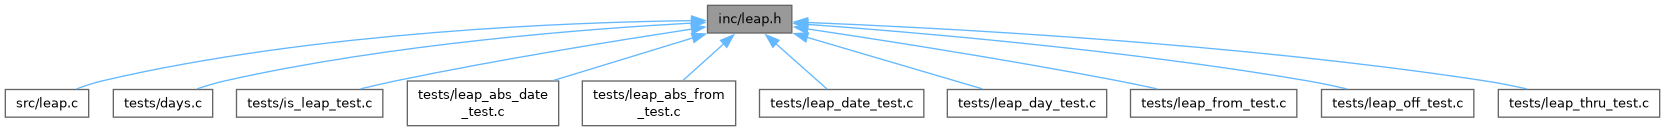
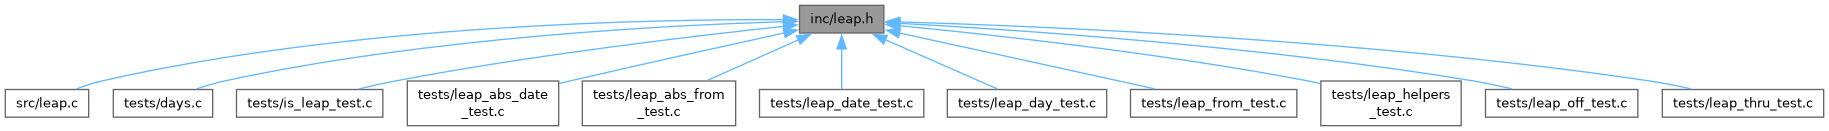
Deploying to gh-pages from @ royratcliffe/leapc@d7aab4cf6ba4ca4f71e1391567cd7a6581b0f03a 🚀

diff --git a/leap__helpers__test_8c_source.html b/leap__helpers__test_8c_source.html
@@ -1,0 +1,177 @@
+<!DOCTYPE html PUBLIC "-//W3C//DTD XHTML 1.0 Transitional//EN" "https://www.w3.org/TR/xhtml1/DTD/xhtml1-transitional.dtd">
+<html xmlns="http://www.w3.org/1999/xhtml" lang="en-US">
+<head>
+<meta http-equiv="Content-Type" content="text/xhtml;charset=UTF-8"/>
+<meta http-equiv="X-UA-Compatible" content="IE=11"/>
+<meta name="generator" content="Doxygen 1.15.0"/>
+<meta name="viewport" content="width=device-width, initial-scale=1"/>
+<title>leapc: tests/leap_helpers_test.c Source File</title>
+<link href="tabs.css" rel="stylesheet" type="text/css"/>
+<script type="text/javascript" src="jquery.js"></script>
+<script type="text/javascript" src="dynsections.js"></script>
+<script type="text/javascript" src="clipboard.js"></script>
+<link href="navtree.css" rel="stylesheet" type="text/css"/>
+<script type="text/javascript" src="navtreedata.js"></script>
+<script type="text/javascript" src="navtree.js"></script>
+<script type="text/javascript" src="cookie.js"></script>
+<link href="search/search.css" rel="stylesheet" type="text/css"/>
+<script type="text/javascript" src="search/searchdata.js"></script>
+<script type="text/javascript" src="search/search.js"></script>
+<link href="doxygen.css" rel="stylesheet" type="text/css" />
+</head>
+<body>
+<div id="top"><!-- do not remove this div, it is closed by doxygen! -->
+<div id="titlearea">
+<table cellspacing="0" cellpadding="0">
+ <tbody>
+ <tr id="projectrow">
+  <td id="projectalign">
+   <div id="projectname">leapc
+   </div>
+  </td>
+ </tr>
+ </tbody>
+</table>
+</div>
+<!-- end header part -->
+<!-- Generated by Doxygen 1.15.0 -->
+<script type="text/javascript">
+var searchBox = new SearchBox("searchBox", "search/",'.html');
+</script>
+<script type="text/javascript">
+$(function() { codefold.init(); });
+</script>
+<script type="text/javascript" src="menudata.js"></script>
+<script type="text/javascript" src="menu.js"></script>
+<script type="text/javascript">
+$(function() {
+  initMenu('',true,false,'search.php','Search',true);
+  $(function() { init_search(); });
+});
+</script>
+<div id="main-nav"></div>
+</div><!-- top -->
+<div id="side-nav" class="ui-resizable side-nav-resizable">
+  <div id="nav-tree">
+    <div id="nav-tree-contents">
+      <div id="nav-sync" class="sync"></div>
+    </div>
+  </div>
+  <div id="splitbar" style="-moz-user-select:none;" 
+       class="ui-resizable-handle">
+  </div>
+</div>
+<script type="text/javascript">
+$(function(){initNavTree('leap__helpers__test_8c_source.html','',''); });
+</script>
+<div id="container">
+<div id="doc-content">
+<!-- window showing the filter options -->
+<div id="MSearchSelectWindow"
+     onmouseover="return searchBox.OnSearchSelectShow()"
+     onmouseout="return searchBox.OnSearchSelectHide()"
+     onkeydown="return searchBox.OnSearchSelectKey(event)">
+</div>
+
+<!-- iframe showing the search results (closed by default) -->
+<div id="MSearchResultsWindow">
+<div id="MSearchResults">
+<div class="SRPage">
+<div id="SRIndex">
+<div id="SRResults"></div>
+<div class="SRStatus" id="Loading">Loading...</div>
+<div class="SRStatus" id="Searching">Searching...</div>
+<div class="SRStatus" id="NoMatches">No Matches</div>
+</div>
+</div>
+</div>
+</div>
+
+<div class="header">
+  <div class="headertitle"><div class="title">leap_helpers_test.c</div></div>
+</div><!--header-->
+<div class="contents">
+<div class="fragment"><div class="line"><a id="l00001" name="l00001"></a><span class="lineno">    1</span><span class="preprocessor">#include &quot;<a class="code" href="leap_8h.html">leap.h</a>&quot;</span></div>
+<div class="line"><a id="l00002" name="l00002"></a><span class="lineno">    2</span> </div>
+<div class="line"><a id="l00003" name="l00003"></a><span class="lineno">    3</span><span class="comment">/* Keep assert-based tests enabled in Release builds. */</span></div>
+<div class="line"><a id="l00004" name="l00004"></a><span class="lineno">    4</span><span class="preprocessor">#ifdef NDEBUG</span></div>
+<div class="line"><a id="l00005" name="l00005"></a><span class="lineno">    5</span><span class="preprocessor">#undef NDEBUG</span></div>
+<div class="line"><a id="l00006" name="l00006"></a><span class="lineno">    6</span><span class="preprocessor">#endif</span></div>
+<div class="line"><a id="l00007" name="l00007"></a><span class="lineno">    7</span><span class="preprocessor">#include &lt;assert.h&gt;</span></div>
+<div class="line"><a id="l00008" name="l00008"></a><span class="lineno">    8</span><span class="preprocessor">#include &lt;stdlib.h&gt;</span></div>
+<div class="line"><a id="l00009" name="l00009"></a><span class="lineno">    9</span> </div>
+<div class="line"><a id="l00010" name="l00010"></a><span class="lineno">   10</span><span class="keywordtype">int</span> leap_helpers_test(<span class="keywordtype">int</span> argc, <span class="keywordtype">char</span> **argv) {</div>
+<div class="line"><a id="l00011" name="l00011"></a><span class="lineno">   11</span>  (void)argc;</div>
+<div class="line"><a id="l00012" name="l00012"></a><span class="lineno">   12</span>  (void)argv;</div>
+<div class="line"><a id="l00013" name="l00013"></a><span class="lineno">   13</span> </div>
+<div class="line"><a id="l00014" name="l00014"></a><span class="lineno">   14</span>  <span class="keyword">static</span> <span class="keyword">const</span> <span class="keyword">struct </span><a class="code hl_struct" href="structleap__off.html">leap_off</a> offsets[] = {</div>
+<div class="line"><a id="l00015" name="l00015"></a><span class="lineno">   15</span>      {2000, 59},</div>
+<div class="line"><a id="l00016" name="l00016"></a><span class="lineno">   16</span>      {2001, 59},</div>
+<div class="line"><a id="l00017" name="l00017"></a><span class="lineno">   17</span>      {2000, 60},</div>
+<div class="line"><a id="l00018" name="l00018"></a><span class="lineno">   18</span>  };</div>
+<div class="line"><a id="l00019" name="l00019"></a><span class="lineno">   19</span>  <span class="keyword">static</span> <span class="keyword">const</span> <span class="keyword">struct </span><a class="code hl_struct" href="structleap__date.html">leap_date</a> dates[] = {</div>
+<div class="line"><a id="l00020" name="l00020"></a><span class="lineno">   20</span>      {2000, 2, 29},</div>
+<div class="line"><a id="l00021" name="l00021"></a><span class="lineno">   21</span>      {2001, 2, 29},</div>
+<div class="line"><a id="l00022" name="l00022"></a><span class="lineno">   22</span>      {2000, 3, 29},</div>
+<div class="line"><a id="l00023" name="l00023"></a><span class="lineno">   23</span>      {2000, 2, 28},</div>
+<div class="line"><a id="l00024" name="l00024"></a><span class="lineno">   24</span>  };</div>
+<div class="line"><a id="l00025" name="l00025"></a><span class="lineno">   25</span> </div>
+<div class="line"><a id="l00026" name="l00026"></a><span class="lineno">   26</span>  <span class="keywordflow">for</span> (<span class="keywordtype">size_t</span> i = 0; i &lt; <span class="keyword">sizeof</span> offsets / <span class="keyword">sizeof</span> offsets[0]; i++)</div>
+<div class="line"><a id="l00027" name="l00027"></a><span class="lineno">   27</span>    <span class="keywordflow">for</span> (<span class="keywordtype">size_t</span> j = 0; j &lt; <span class="keyword">sizeof</span> offsets / <span class="keyword">sizeof</span> offsets[0]; j++)</div>
+<div class="line"><a id="l00028" name="l00028"></a><span class="lineno">   28</span>      assert(<a class="code hl_function" href="leap_8h.html#a00361f152b7493548e05449e8715e0d7">equal_leap_off</a>(offsets[i], offsets[j]) == (i == j));</div>
+<div class="line"><a id="l00029" name="l00029"></a><span class="lineno">   29</span> </div>
+<div class="line"><a id="l00030" name="l00030"></a><span class="lineno">   30</span>  <span class="keywordflow">for</span> (<span class="keywordtype">size_t</span> i = 0; i &lt; <span class="keyword">sizeof</span> dates / <span class="keyword">sizeof</span> dates[0]; i++)</div>
+<div class="line"><a id="l00031" name="l00031"></a><span class="lineno">   31</span>    <span class="keywordflow">for</span> (<span class="keywordtype">size_t</span> j = 0; j &lt; <span class="keyword">sizeof</span> dates / <span class="keyword">sizeof</span> dates[0]; j++)</div>
+<div class="line"><a id="l00032" name="l00032"></a><span class="lineno">   32</span>      assert(<a class="code hl_function" href="leap_8h.html#ada49db2df2689b249acfb50ebe09a28f">equal_leap_date</a>(dates[i], dates[j]) == (i == j));</div>
+<div class="line"><a id="l00033" name="l00033"></a><span class="lineno">   33</span> </div>
+<div class="line"><a id="l00034" name="l00034"></a><span class="lineno">   34</span>  <span class="comment">/* Test conversion between leap_date and leap_off structures. */</span></div>
+<div class="line"><a id="l00035" name="l00035"></a><span class="lineno">   35</span>  <span class="keyword">static</span> <span class="keyword">const</span> <span class="keyword">struct </span>{</div>
+<div class="line"><a id="l00036" name="l00036"></a><span class="lineno">   36</span>    <span class="keyword">struct </span><a class="code hl_function" href="leap_8h.html#a704a91098c0752c7380cc7e9aa2d3d10">leap_date</a> date;</div>
+<div class="line"><a id="l00037" name="l00037"></a><span class="lineno">   37</span>    <span class="keyword">struct </span><a class="code hl_function" href="leap_8h.html#aaa3f95737d9178c8116408089e693d24">leap_off</a> off;</div>
+<div class="line"><a id="l00038" name="l00038"></a><span class="lineno">   38</span>    <span class="keywordtype">int</span> absolute;</div>
+<div class="line"><a id="l00039" name="l00039"></a><span class="lineno">   39</span>  } cases[] = {</div>
+<div class="line"><a id="l00040" name="l00040"></a><span class="lineno">   40</span>      {{0, 1, 1}, {0, 0}, 0},   {{0, 2, 29}, {0, 59}, 59},     {{0, 12, 31}, {0, 365}, 365},</div>
+<div class="line"><a id="l00041" name="l00041"></a><span class="lineno">   41</span>      {{1, 1, 1}, {1, 0}, 366}, {{-1, 12, 31}, {-1, 364}, -1},</div>
+<div class="line"><a id="l00042" name="l00042"></a><span class="lineno">   42</span>  };</div>
+<div class="line"><a id="l00043" name="l00043"></a><span class="lineno">   43</span> </div>
+<div class="line"><a id="l00044" name="l00044"></a><span class="lineno">   44</span>  <span class="keywordflow">for</span> (<span class="keywordtype">size_t</span> i = 0; i &lt; <span class="keyword">sizeof</span> cases / <span class="keyword">sizeof</span> cases[0]; i++) {</div>
+<div class="line"><a id="l00045" name="l00045"></a><span class="lineno">   45</span>    <span class="keyword">const</span> <span class="keyword">struct </span><a class="code hl_struct" href="structleap__off.html">leap_off</a> off = <a class="code hl_function" href="leap_8h.html#a77ce78ae87adfdb0135c27f4f2c45e7b">leap_from_date</a>(cases[i].date);</div>
+<div class="line"><a id="l00046" name="l00046"></a><span class="lineno">   46</span>    assert(off.<a class="code hl_variable" href="structleap__off.html#adbe52994b637f6e5f60225a3300b2ac3">year</a> == cases[i].off.year);</div>
+<div class="line"><a id="l00047" name="l00047"></a><span class="lineno">   47</span>    assert(off.<a class="code hl_variable" href="structleap__off.html#abfced6c902115427f236f9d210728b03">day</a> == cases[i].off.day);</div>
+<div class="line"><a id="l00048" name="l00048"></a><span class="lineno">   48</span>    assert(<a class="code hl_function" href="leap_8h.html#a25b20ed9e561091bc166e0ed29125299">leap_abs_from_date</a>(cases[i].date) == cases[i].absolute);</div>
+<div class="line"><a id="l00049" name="l00049"></a><span class="lineno">   49</span> </div>
+<div class="line"><a id="l00050" name="l00050"></a><span class="lineno">   50</span>    <span class="keyword">const</span> <span class="keyword">struct </span><a class="code hl_struct" href="structleap__date.html">leap_date</a> date = <a class="code hl_function" href="leap_8h.html#a52d40d15121fd759f22df038eacfc340">leap_date_from_off</a>(cases[i].off);</div>
+<div class="line"><a id="l00051" name="l00051"></a><span class="lineno">   51</span>    assert(date.<a class="code hl_variable" href="structleap__date.html#a2592d9561ec40722409dccce80e279ab">year</a> == cases[i].date.year);</div>
+<div class="line"><a id="l00052" name="l00052"></a><span class="lineno">   52</span>    assert(date.<a class="code hl_variable" href="structleap__date.html#ab236ca424c309ab5d4e90adf9642522b">month</a> == cases[i].date.month);</div>
+<div class="line"><a id="l00053" name="l00053"></a><span class="lineno">   53</span>    assert(date.<a class="code hl_variable" href="structleap__date.html#af298f0ea5fb406b2e02aa35d3c68c71f">day</a> == cases[i].date.day);</div>
+<div class="line"><a id="l00054" name="l00054"></a><span class="lineno">   54</span>  }</div>
+<div class="line"><a id="l00055" name="l00055"></a><span class="lineno">   55</span> </div>
+<div class="line"><a id="l00056" name="l00056"></a><span class="lineno">   56</span>  <span class="keywordflow">return</span> EXIT_SUCCESS;</div>
+<div class="line"><a id="l00057" name="l00057"></a><span class="lineno">   57</span>}</div>
+<div class="ttc" id="aleap_8h_html"><div class="ttname"><a href="leap_8h.html">leap.h</a></div><div class="ttdoc">Leap year function prototypes.</div></div>
+<div class="ttc" id="aleap_8h_html_a00361f152b7493548e05449e8715e0d7"><div class="ttname"><a href="leap_8h.html#a00361f152b7493548e05449e8715e0d7">equal_leap_off</a></div><div class="ttdeci">static bool equal_leap_off(struct leap_off lhs, struct leap_off rhs)</div><div class="ttdoc">Compares two leap_off structures for equality.</div><div class="ttdef"><b>Definition</b> <a href="leap_8h_source.html#l00105">leap.h:105</a></div></div>
+<div class="ttc" id="aleap_8h_html_a25b20ed9e561091bc166e0ed29125299"><div class="ttname"><a href="leap_8h.html#a25b20ed9e561091bc166e0ed29125299">leap_abs_from_date</a></div><div class="ttdeci">static int leap_abs_from_date(struct leap_date date)</div><div class="ttdoc">Absolute date from leap_date structure.</div><div class="ttdef"><b>Definition</b> <a href="leap_8h_source.html#l00275">leap.h:275</a></div></div>
+<div class="ttc" id="aleap_8h_html_a52d40d15121fd759f22df038eacfc340"><div class="ttname"><a href="leap_8h.html#a52d40d15121fd759f22df038eacfc340">leap_date_from_off</a></div><div class="ttdeci">static struct leap_date leap_date_from_off(struct leap_off off)</div><div class="ttdoc">Date from leap offset.</div><div class="ttdef"><b>Definition</b> <a href="leap_8h_source.html#l00218">leap.h:218</a></div></div>
+<div class="ttc" id="aleap_8h_html_a704a91098c0752c7380cc7e9aa2d3d10"><div class="ttname"><a href="leap_8h.html#a704a91098c0752c7380cc7e9aa2d3d10">leap_date</a></div><div class="ttdeci">struct leap_date leap_date(int year, int day_off)</div><div class="ttdoc">Date from year and day of year.</div><div class="ttdef"><b>Definition</b> <a href="leap_8c_source.html#l00104">leap.c:104</a></div></div>
+<div class="ttc" id="aleap_8h_html_a77ce78ae87adfdb0135c27f4f2c45e7b"><div class="ttname"><a href="leap_8h.html#a77ce78ae87adfdb0135c27f4f2c45e7b">leap_from_date</a></div><div class="ttdeci">static struct leap_off leap_from_date(struct leap_date date)</div><div class="ttdoc">Day from leap date.</div><div class="ttdef"><b>Definition</b> <a href="leap_8h_source.html#l00240">leap.h:240</a></div></div>
+<div class="ttc" id="aleap_8h_html_aaa3f95737d9178c8116408089e693d24"><div class="ttname"><a href="leap_8h.html#aaa3f95737d9178c8116408089e693d24">leap_off</a></div><div class="ttdeci">struct leap_off leap_off(int year, int day_off)</div><div class="ttdoc">Offsets year and day of year.</div><div class="ttdef"><b>Definition</b> <a href="leap_8c_source.html#l00070">leap.c:70</a></div></div>
+<div class="ttc" id="aleap_8h_html_ada49db2df2689b249acfb50ebe09a28f"><div class="ttname"><a href="leap_8h.html#ada49db2df2689b249acfb50ebe09a28f">equal_leap_date</a></div><div class="ttdeci">static bool equal_leap_date(struct leap_date lhs, struct leap_date rhs)</div><div class="ttdoc">Compares two leap_date structures for equality.</div><div class="ttdef"><b>Definition</b> <a href="leap_8h_source.html#l00193">leap.h:193</a></div></div>
+<div class="ttc" id="astructleap__date_html"><div class="ttname"><a href="structleap__date.html">leap_date</a></div><div class="ttdoc">Leap year date structure.</div><div class="ttdef"><b>Definition</b> <a href="leap_8h_source.html#l00163">leap.h:163</a></div></div>
+<div class="ttc" id="astructleap__date_html_a2592d9561ec40722409dccce80e279ab"><div class="ttname"><a href="structleap__date.html#a2592d9561ec40722409dccce80e279ab">leap_date::year</a></div><div class="ttdeci">int year</div><div class="ttdoc">Year.</div><div class="ttdef"><b>Definition</b> <a href="leap_8h_source.html#l00167">leap.h:167</a></div></div>
+<div class="ttc" id="astructleap__date_html_ab236ca424c309ab5d4e90adf9642522b"><div class="ttname"><a href="structleap__date.html#ab236ca424c309ab5d4e90adf9642522b">leap_date::month</a></div><div class="ttdeci">int month</div><div class="ttdoc">Month of year starting from 1 for January.</div><div class="ttdef"><b>Definition</b> <a href="leap_8h_source.html#l00174">leap.h:174</a></div></div>
+<div class="ttc" id="astructleap__date_html_af298f0ea5fb406b2e02aa35d3c68c71f"><div class="ttname"><a href="structleap__date.html#af298f0ea5fb406b2e02aa35d3c68c71f">leap_date::day</a></div><div class="ttdeci">int day</div><div class="ttdoc">Day of month starting from 1 for the first day of the month.</div><div class="ttdef"><b>Definition</b> <a href="leap_8h_source.html#l00181">leap.h:181</a></div></div>
+<div class="ttc" id="astructleap__off_html"><div class="ttname"><a href="structleap__off.html">leap_off</a></div><div class="ttdoc">Leap offset by year and day.</div><div class="ttdef"><b>Definition</b> <a href="leap_8h_source.html#l00077">leap.h:77</a></div></div>
+<div class="ttc" id="astructleap__off_html_abfced6c902115427f236f9d210728b03"><div class="ttname"><a href="structleap__off.html#abfced6c902115427f236f9d210728b03">leap_off::day</a></div><div class="ttdeci">int day</div><div class="ttdoc">Day of year offset.</div><div class="ttdef"><b>Definition</b> <a href="leap_8h_source.html#l00085">leap.h:85</a></div></div>
+<div class="ttc" id="astructleap__off_html_adbe52994b637f6e5f60225a3300b2ac3"><div class="ttname"><a href="structleap__off.html#adbe52994b637f6e5f60225a3300b2ac3">leap_off::year</a></div><div class="ttdeci">int year</div><div class="ttdoc">Year offset.</div><div class="ttdef"><b>Definition</b> <a href="leap_8h_source.html#l00081">leap.h:81</a></div></div>
+</div><!-- fragment --></div><!-- contents -->
+</div><!-- doc-content -->
+</div><!-- container -->
+<!-- start footer part -->
+<div id="nav-path" class="navpath"><!-- id is needed for treeview function! -->
+  <ul>
+    <li class="navelem"><b>tests</b></li><li class="navelem"><b>leap_helpers_test.c</b></li>
+    <li class="footer">Generated by <a href="https://www.doxygen.org/index.html"><img class="footer" src="doxygen.svg" width="104" height="31" alt="doxygen"/></a> 1.15.0 </li>
+  </ul>
+</div>
+</body>
+</html>

diff --git a/leap_8h.html b/leap_8h.html
@@ -117,27 +117,29 @@ This graph shows which files directly or indirectly include this file:</div>
 <div class="dyncontent">
 <div class="center"><img src="leap_8h__dep__incl.png" border="0" usemap="#ainc_2leap_8hdep" loading="lazy" alt=""/></div>
 <map name="ainc_2leap_8hdep" id="ainc_2leap_8hdep">
-<area shape="rect" title="Leap year function prototypes." alt="" coords="708,5,792,33"/>
+<area shape="rect" title="Leap year function prototypes." alt="" coords="800,5,884,33"/>
 <area shape="rect" href="leap_8c.html" title="Leap year function implementations." alt="" coords="5,90,89,117"/>
-<area shape="poly" title=" " alt="" coords="689,21,582,26,434,35,268,53,184,67,102,84,78,91,76,86,101,78,183,61,268,48,434,30,581,21,694,20"/>
+<area shape="poly" title=" " alt="" coords="781,20,659,24,489,31,296,50,198,65,102,84,78,91,76,86,101,78,197,59,295,45,489,26,659,18,786,19"/>
 <area shape="rect" href="days_8c_source.html" title=" " alt="" coords="113,90,213,117"/>
-<area shape="poly" title=" " alt="" coords="689,24,484,43,355,59,225,84,198,91,196,86,224,78,354,54,484,37,694,23"/>
+<area shape="poly" title=" " alt="" coords="781,22,678,29,539,39,382,56,225,84,197,92,196,86,224,78,381,51,538,33,678,24,786,21"/>
 <area shape="rect" href="is__leap__test_8c_source.html" title=" " alt="" coords="236,90,383,117"/>
-<area shape="poly" title=" " alt="" coords="694,29,556,54,396,84,361,91,360,86,394,78,556,48,689,29"/>
+<area shape="poly" title=" " alt="" coords="781,27,610,50,395,84,360,92,359,86,395,78,609,45,787,26"/>
 <area shape="rect" href="leap__abs__date__test_8c_source.html" title=" " alt="" coords="407,81,559,126"/>
-<area shape="poly" title=" " alt="" coords="696,37,554,83,553,78,690,38"/>
+<area shape="poly" title=" " alt="" coords="787,33,570,84,559,86,559,81,569,78,782,33"/>
 <area shape="rect" href="leap__abs__from__test_8c_source.html" title=" " alt="" coords="582,81,736,126"/>
-<area shape="poly" title=" " alt="" coords="726,43,684,83,682,78,721,45"/>
+<area shape="poly" title=" " alt="" coords="801,39,708,83,707,78,796,40"/>
 <area shape="rect" href="leap__date__test_8c_source.html" title=" " alt="" coords="760,90,924,117"/>
-<area shape="poly" title=" " alt="" coords="777,41,830,90,825,88,775,46"/>
+<area shape="poly" title=" " alt="" coords="844,47,844,91,840,87,840,51"/>
 <area shape="rect" href="leap__day__test_8c_source.html" title=" " alt="" coords="947,90,1107,117"/>
-<area shape="poly" title=" " alt="" coords="807,35,985,89,980,89,807,40"/>
+<area shape="poly" title=" " alt="" coords="886,37,1000,89,995,89,885,42"/>
 <area shape="rect" href="leap__from__test_8c_source.html" title=" " alt="" coords="1130,90,1297,117"/>
-<area shape="poly" title=" " alt="" coords="808,26,950,49,1120,78,1160,89,1155,89,1118,84,949,54,807,32"/>
-<area shape="rect" href="leap__off__test_8c_source.html" title=" " alt="" coords="1322,90,1474,117"/>
-<area shape="poly" title=" " alt="" coords="807,22,1028,41,1168,57,1309,78,1350,89,1344,89,1308,84,1167,63,1027,46,807,27"/>
-<area shape="rect" href="leap__thru__test_8c_source.html" title=" " alt="" coords="1498,90,1660,117"/>
-<area shape="poly" title=" " alt="" coords="807,20,1099,37,1292,54,1486,78,1530,89,1524,89,1485,84,1291,59,1099,42,807,25"/>
+<area shape="poly" title=" " alt="" coords="900,30,1120,78,1157,89,1152,89,1118,84,899,36"/>
+<area shape="rect" href="leap__helpers__test_8c_source.html" title=" " alt="" coords="1321,81,1461,126"/>
+<area shape="poly" title=" " alt="" coords="899,23,1083,43,1309,78,1323,84,1318,83,1308,84,1082,49,899,28"/>
+<area shape="rect" href="leap__off__test_8c_source.html" title=" " alt="" coords="1486,90,1638,117"/>
+<area shape="poly" title=" " alt="" coords="900,21,1150,39,1311,55,1474,78,1515,89,1509,89,1473,84,1311,61,1150,44,900,26"/>
+<area shape="rect" href="leap__thru__test_8c_source.html" title=" " alt="" coords="1662,90,1824,117"/>
+<area shape="poly" title=" " alt="" coords="900,19,1220,35,1434,52,1650,78,1694,89,1688,89,1649,84,1433,57,1220,40,900,25"/>
 </map>
 </div>
 </div>

diff --git a/dir_000002_000000.html b/dir_000002_000000.html
@@ -95,7 +95,7 @@ $(function(){initNavTree('dir_59425e443f801f1f2fd8bbe4959a3ccf.html','',''); });
 </div>
 
 <div class="contents">
-<h3>tests &rarr; inc Relation</h3><table class="dirtab"><tr class="dirtab"><th class="dirtab">File in tests</th><th class="dirtab">Includes file in inc</th></tr><tr class="dirtab"><td class="dirtab"><b>days.c</b></td><td class="dirtab"><a class="el" href="leap_8h.html">leap.h</a></td></tr><tr class="dirtab"><td class="dirtab"><b>is_leap_test.c</b></td><td class="dirtab"><a class="el" href="leap_8h.html">leap.h</a></td></tr><tr class="dirtab"><td class="dirtab"><b>leap_abs_date_test.c</b></td><td class="dirtab"><a class="el" href="leap_8h.html">leap.h</a></td></tr><tr class="dirtab"><td class="dirtab"><b>leap_abs_from_test.c</b></td><td class="dirtab"><a class="el" href="leap_8h.html">leap.h</a></td></tr><tr class="dirtab"><td class="dirtab"><b>leap_date_test.c</b></td><td class="dirtab"><a class="el" href="leap_8h.html">leap.h</a></td></tr><tr class="dirtab"><td class="dirtab"><b>leap_day_test.c</b></td><td class="dirtab"><a class="el" href="leap_8h.html">leap.h</a></td></tr><tr class="dirtab"><td class="dirtab"><b>leap_from_test.c</b></td><td class="dirtab"><a class="el" href="leap_8h.html">leap.h</a></td></tr><tr class="dirtab"><td class="dirtab"><b>leap_off_test.c</b></td><td class="dirtab"><a class="el" href="leap_8h.html">leap.h</a></td></tr><tr class="dirtab"><td class="dirtab"><b>leap_thru_test.c</b></td><td class="dirtab"><a class="el" href="leap_8h.html">leap.h</a></td></tr><tr class="dirtab"><td class="dirtab"><b>quo_mod_test.c</b></td><td class="dirtab"><a class="el" href="quo__mod_8h.html">quo_mod.h</a></td></tr></table></div><!-- contents -->
+<h3>tests &rarr; inc Relation</h3><table class="dirtab"><tr class="dirtab"><th class="dirtab">File in tests</th><th class="dirtab">Includes file in inc</th></tr><tr class="dirtab"><td class="dirtab"><b>days.c</b></td><td class="dirtab"><a class="el" href="leap_8h.html">leap.h</a></td></tr><tr class="dirtab"><td class="dirtab"><b>is_leap_test.c</b></td><td class="dirtab"><a class="el" href="leap_8h.html">leap.h</a></td></tr><tr class="dirtab"><td class="dirtab"><b>leap_abs_date_test.c</b></td><td class="dirtab"><a class="el" href="leap_8h.html">leap.h</a></td></tr><tr class="dirtab"><td class="dirtab"><b>leap_abs_from_test.c</b></td><td class="dirtab"><a class="el" href="leap_8h.html">leap.h</a></td></tr><tr class="dirtab"><td class="dirtab"><b>leap_date_test.c</b></td><td class="dirtab"><a class="el" href="leap_8h.html">leap.h</a></td></tr><tr class="dirtab"><td class="dirtab"><b>leap_day_test.c</b></td><td class="dirtab"><a class="el" href="leap_8h.html">leap.h</a></td></tr><tr class="dirtab"><td class="dirtab"><b>leap_from_test.c</b></td><td class="dirtab"><a class="el" href="leap_8h.html">leap.h</a></td></tr><tr class="dirtab"><td class="dirtab"><b>leap_helpers_test.c</b></td><td class="dirtab"><a class="el" href="leap_8h.html">leap.h</a></td></tr><tr class="dirtab"><td class="dirtab"><b>leap_off_test.c</b></td><td class="dirtab"><a class="el" href="leap_8h.html">leap.h</a></td></tr><tr class="dirtab"><td class="dirtab"><b>leap_thru_test.c</b></td><td class="dirtab"><a class="el" href="leap_8h.html">leap.h</a></td></tr><tr class="dirtab"><td class="dirtab"><b>quo_mod_test.c</b></td><td class="dirtab"><a class="el" href="quo__mod_8h.html">quo_mod.h</a></td></tr></table></div><!-- contents -->
 </div><!-- doc-content -->
 <div id="page-nav" class="page-nav-panel">
 <div id="page-nav-resize-handle"></div>

diff --git a/dir_59425e443f801f1f2fd8bbe4959a3ccf.html b/dir_59425e443f801f1f2fd8bbe4959a3ccf.html
@@ -106,7 +106,7 @@ Directory dependency graph for tests:</div>
 <area shape="rect" href="dir_59425e443f801f1f2fd8bbe4959a3ccf.html" title="tests" alt="" coords="5,5,59,33"/>
 <area shape="rect" href="dir_bfccd401955b95cf8c75461437045ac0.html" title="inc" alt="" coords="12,81,52,109"/>
 <area shape="poly" href="dir_000002_000000.html" alt="" coords="33,31,35,66,29,65,31,36"/>
-<area shape="rect" href="dir_000002_000000.html" title="10" alt="" coords="32,54,48,71"/>
+<area shape="rect" href="dir_000002_000000.html" title="11" alt="" coords="32,54,48,71"/>
 </map>
 </div>
 <table class="memberdecls">
@@ -121,6 +121,7 @@ Files</h2></td></tr>
 <tr class="memitem:leap_5Fdate_5Ftest_2Ec" id="r_leap_5Fdate_5Ftest_2Ec"><td class="memItemLeft" align="right" valign="top"><a href="leap__date__test_8c_source.html"><span class="icondoc"><div class="doc-icon"></div></span></a>&#160;</td><td class="memItemRight" valign="bottom"><b>leap_date_test.c</b></td></tr>
 <tr class="memitem:leap_5Fday_5Ftest_2Ec" id="r_leap_5Fday_5Ftest_2Ec"><td class="memItemLeft" align="right" valign="top"><a href="leap__day__test_8c_source.html"><span class="icondoc"><div class="doc-icon"></div></span></a>&#160;</td><td class="memItemRight" valign="bottom"><b>leap_day_test.c</b></td></tr>
 <tr class="memitem:leap_5Ffrom_5Ftest_2Ec" id="r_leap_5Ffrom_5Ftest_2Ec"><td class="memItemLeft" align="right" valign="top"><a href="leap__from__test_8c_source.html"><span class="icondoc"><div class="doc-icon"></div></span></a>&#160;</td><td class="memItemRight" valign="bottom"><b>leap_from_test.c</b></td></tr>
+<tr class="memitem:leap_5Fhelpers_5Ftest_2Ec" id="r_leap_5Fhelpers_5Ftest_2Ec"><td class="memItemLeft" align="right" valign="top"><a href="leap__helpers__test_8c_source.html"><span class="icondoc"><div class="doc-icon"></div></span></a>&#160;</td><td class="memItemRight" valign="bottom"><b>leap_helpers_test.c</b></td></tr>
 <tr class="memitem:leap_5Foff_5Ftest_2Ec" id="r_leap_5Foff_5Ftest_2Ec"><td class="memItemLeft" align="right" valign="top"><a href="leap__off__test_8c_source.html"><span class="icondoc"><div class="doc-icon"></div></span></a>&#160;</td><td class="memItemRight" valign="bottom"><b>leap_off_test.c</b></td></tr>
 <tr class="memitem:leap_5Fthru_5Ftest_2Ec" id="r_leap_5Fthru_5Ftest_2Ec"><td class="memItemLeft" align="right" valign="top"><a href="leap__thru__test_8c_source.html"><span class="icondoc"><div class="doc-icon"></div></span></a>&#160;</td><td class="memItemRight" valign="bottom"><b>leap_thru_test.c</b></td></tr>
 <tr class="memitem:quo_5Fmod_5Ftest_2Ec" id="r_quo_5Fmod_5Ftest_2Ec"><td class="memItemLeft" align="right" valign="top"><a href="quo__mod__test_8c_source.html"><span class="icondoc"><div class="doc-icon"></div></span></a>&#160;</td><td class="memItemRight" valign="bottom"><b>quo_mod_test.c</b></td></tr>

diff --git a/files.html b/files.html
@@ -115,9 +115,10 @@ $(function(){initNavTree('files.html','',''); });
 <tr id="row_2_5_" class="even"><td class="entry"><span style="width:32px;display:inline-block;">&#160;</span><a href="leap__date__test_8c_source.html"><span class="icondoc"><div class="doc-icon"></div></span></a><b>leap_date_test.c</b></td><td class="desc"></td></tr>
 <tr id="row_2_6_" class="odd"><td class="entry"><span style="width:32px;display:inline-block;">&#160;</span><a href="leap__day__test_8c_source.html"><span class="icondoc"><div class="doc-icon"></div></span></a><b>leap_day_test.c</b></td><td class="desc"></td></tr>
 <tr id="row_2_7_" class="even"><td class="entry"><span style="width:32px;display:inline-block;">&#160;</span><a href="leap__from__test_8c_source.html"><span class="icondoc"><div class="doc-icon"></div></span></a><b>leap_from_test.c</b></td><td class="desc"></td></tr>
-<tr id="row_2_8_" class="odd"><td class="entry"><span style="width:32px;display:inline-block;">&#160;</span><a href="leap__off__test_8c_source.html"><span class="icondoc"><div class="doc-icon"></div></span></a><b>leap_off_test.c</b></td><td class="desc"></td></tr>
-<tr id="row_2_9_" class="even"><td class="entry"><span style="width:32px;display:inline-block;">&#160;</span><a href="leap__thru__test_8c_source.html"><span class="icondoc"><div class="doc-icon"></div></span></a><b>leap_thru_test.c</b></td><td class="desc"></td></tr>
-<tr id="row_2_10_" class="odd"><td class="entry"><span style="width:32px;display:inline-block;">&#160;</span><a href="quo__mod__test_8c_source.html"><span class="icondoc"><div class="doc-icon"></div></span></a><b>quo_mod_test.c</b></td><td class="desc"></td></tr>
+<tr id="row_2_8_" class="odd"><td class="entry"><span style="width:32px;display:inline-block;">&#160;</span><a href="leap__helpers__test_8c_source.html"><span class="icondoc"><div class="doc-icon"></div></span></a><b>leap_helpers_test.c</b></td><td class="desc"></td></tr>
+<tr id="row_2_9_" class="even"><td class="entry"><span style="width:32px;display:inline-block;">&#160;</span><a href="leap__off__test_8c_source.html"><span class="icondoc"><div class="doc-icon"></div></span></a><b>leap_off_test.c</b></td><td class="desc"></td></tr>
+<tr id="row_2_10_" class="odd"><td class="entry"><span style="width:32px;display:inline-block;">&#160;</span><a href="leap__thru__test_8c_source.html"><span class="icondoc"><div class="doc-icon"></div></span></a><b>leap_thru_test.c</b></td><td class="desc"></td></tr>
+<tr id="row_2_11_" class="even"><td class="entry"><span style="width:32px;display:inline-block;">&#160;</span><a href="quo__mod__test_8c_source.html"><span class="icondoc"><div class="doc-icon"></div></span></a><b>quo_mod_test.c</b></td><td class="desc"></td></tr>
 </table>
 </div><!-- directory -->
 </div><!-- contents -->

diff --git a/navtreeindex0.js b/navtreeindex0.js
@@ -69,8 +69,9 @@ var NAVTREEINDEX0 =
 "leap__date__test_8c_source.html":[2,0,2,5],
 "leap__day__test_8c_source.html":[2,0,2,6],
 "leap__from__test_8c_source.html":[2,0,2,7],
-"leap__off__test_8c_source.html":[2,0,2,8],
-"leap__thru__test_8c_source.html":[2,0,2,9],
+"leap__helpers__test_8c_source.html":[2,0,2,8],
+"leap__off__test_8c_source.html":[2,0,2,9],
+"leap__thru__test_8c_source.html":[2,0,2,10],
 "pages.html":[],
 "quo__mod_8c.html":[2,0,1,1],
 "quo__mod_8c.html#aeabd755380ce1899a79e3677c06128b2":[2,0,1,1,0],
@@ -78,7 +79,7 @@ var NAVTREEINDEX0 =
 "quo__mod_8h.html":[2,0,0,1],
 "quo__mod_8h.html#aeabd755380ce1899a79e3677c06128b2":[2,0,0,1,1],
 "quo__mod_8h_source.html":[2,0,0,1],
-"quo__mod__test_8c_source.html":[2,0,2,10],
+"quo__mod__test_8c_source.html":[2,0,2,11],
 "structleap__date.html":[1,0,0],
 "structleap__date.html#a2592d9561ec40722409dccce80e279ab":[1,0,0,2],
 "structleap__date.html#ab236ca424c309ab5d4e90adf9642522b":[1,0,0,1],

diff --git a/dir_59425e443f801f1f2fd8bbe4959a3ccf.js b/dir_59425e443f801f1f2fd8bbe4959a3ccf.js
@@ -8,6 +8,7 @@ var dir_59425e443f801f1f2fd8bbe4959a3ccf =
     [ "leap_date_test.c", "leap__date__test_8c_source.html", null ],
     [ "leap_day_test.c", "leap__day__test_8c_source.html", null ],
     [ "leap_from_test.c", "leap__from__test_8c_source.html", null ],
+    [ "leap_helpers_test.c", "leap__helpers__test_8c_source.html", null ],
     [ "leap_off_test.c", "leap__off__test_8c_source.html", null ],
     [ "leap_thru_test.c", "leap__thru__test_8c_source.html", null ],
     [ "quo_mod_test.c", "quo__mod__test_8c_source.html", null ]

diff --git a/doxygen_crawl.html b/doxygen_crawl.html
@@ -80,6 +80,7 @@
 <a href="leap__date__test_8c_source.html"/>
 <a href="leap__day__test_8c_source.html"/>
 <a href="leap__from__test_8c_source.html"/>
+<a href="leap__helpers__test_8c_source.html"/>
 <a href="leap__off__test_8c_source.html"/>
 <a href="leap__thru__test_8c_source.html"/>
 <a href="quo__mod_8c.html"/>
